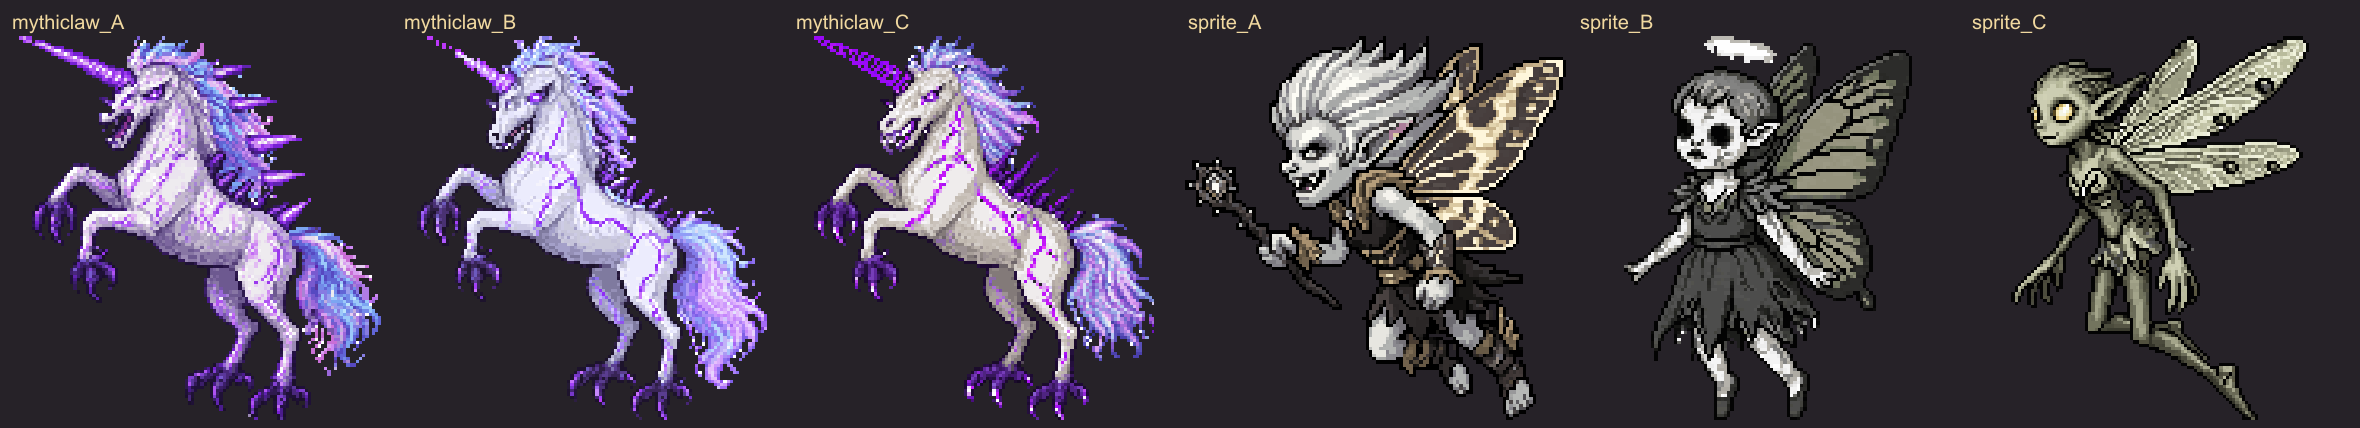
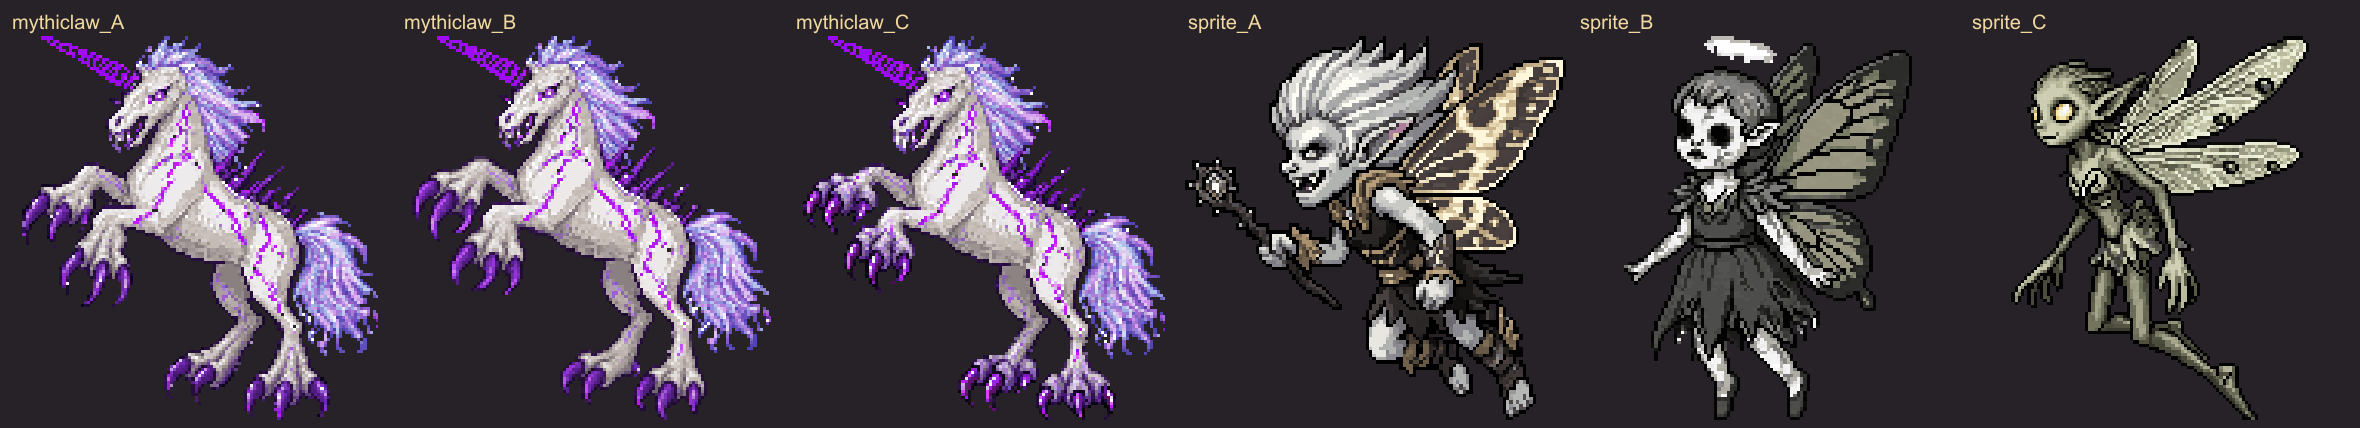
The Mythiclaw's claws: heavy, hooked beast claws in place of thin bird talons, with the two raised front claws splayed wide to strike (the user, 2026-11-26: "too bird claw like, go more like the GPT rendition"), on their pick of the three. Three claw versions are the new finalists; A is in the game 

Changed region(s): [[0.0, 0.0911, 0.4949, 0.972]]

diff --git a/lib/sprites/creatures.ts b/lib/sprites/creatures.ts
@@ -19,7 +19,7 @@ const ART_SIZES: Record<string, [number, number]> = {
   moss_wolf: [82, 65],
   amber_wasp: [62, 55],
   bellow_toad: [90, 68],
-  dire_wolf: [114, 121], // the Mythiclaw (2026-11-26; the Dire Wolf's old art is rooms/dire_wolf_scene.png)
+  dire_wolf: [116, 125], // the Mythiclaw (2026-11-26; the Dire Wolf's old art is rooms/dire_wolf_scene.png)
   ironhide: [122, 87],
   cave_bat: [60, 63], // the Cave Goblin (was the Cave Bat; the id stays for old saves)
   rust_beetle: [81, 68],

diff --git a/public/sprites/PIXELLAB.md b/public/sprites/PIXELLAB.md
@@ -41,7 +41,7 @@ the PNG here.
 | creatures/troglodyte_brute.png | job 67ed269a-ca13-4765-83fe-b35df2944608 (pixen 128×128, gallery c335fd01-ea0d-5785-9bb3-faf5f7481f87) |
 | creatures/gravewarden.png | job 8cd2d3c2-fcb0-40b4-a98b-b79505ae73b1 (pixen 128×128, gallery bde346e7-3644-5a5e-bdd9-8584e533f2a6) |
 | creatures/hexed_puppet.png | edit_image_pro_flash 54cf04de-84a8-4d7d-b7e3-9524eba3d90e (a whole marionette cross) of pixen cc79a273-a6d2-476f-ad22-1e19d5242628 |
-| creatures/dire_wolf.png | the Mythiclaw (2026-11-26; the Dire Wolf's art moved to rooms/dire_wolf_scene.png), restyled to the user's reference (art/new-creatures-2026-11-26/ref): edit_image_pro_flash d709b0be-cfb6-44ac-ac99-37a38b72f8d2 (thin glowing horn, bigger spikes) of 3a399567-1638-4146-a8d7-4d29176c7133 (the reference's look, by reference image) of the rearing edit ea24f831-e781-43a5-8db0-5b98067ff58f; option A of three (stand-in until the user picks) |
+| creatures/dire_wolf.png | the Mythiclaw (2026-11-26; the Dire Wolf's art moved to rooms/dire_wolf_scene.png), restyled to the user's reference (art/new-creatures-2026-11-26/ref): edit_image_pro_flash 6f0dbea2-52d7-402c-a443-04532a12f2e7 (heavy hooked claws, the raised pair splayed) of 73ddf64f-9ba9-473c-bf27-38dfdc6278c9 (thin glowing horn) of 0cdac18a-04e7-4dae-99ae-5bf7e993f0c3 (the reference's look) of the rearing edit ea24f831-e781-43a5-8db0-5b98067ff58f; option A of three (stand-in until the user picks) |
 | creatures/labyrinth_sprite.png | pixen 86998418-ac51-4bd5-947b-a732de99fda2; option A of three in art/new-creatures-2026-11-26 (stand-in until the user picks) |
 | creatures/deep_angler.png | gallery:aa6e8bcd-c214-4545-8890-8c9f9b18fcb7 (raw generation; trimmed + mirrored here) |
 | creatures/tunnel_wyrm.png | gallery:6b352516-6423-470d-8f0c-1b50394f10a9 (raw generation; trimmed + mirrored here) |

diff --git a/art/new-creatures-2026-11-26/README.md b/art/new-creatures-2026-11-26/README.md
@@ -17,3 +17,7 @@ the back, vein style things down it. I like the teeth. I like the colours"; the 
 of C with the reference as the style image), R2/R3 (text edits of C), R4/R5 (pixen; hooves, out). round6.png: the thin
 glowing horn on R1, R3, R2 = **the Mythiclaw finalists now**, A (V1, the judge's first), B (V3, cooler lilac), C (V2, brightest
 veins). The first look's finalists are in finals/first-look/.
+
+**Claws (2026-11-26):** the user picked C (V2) but wanted "more strong looking claws and more aggressive on the ones that are
+raised … too bird claw like, go more like the GPT rendition". round7.png: K1 (by the reference image), K2, K3 (text edits).
+**The Mythiclaw finalists now:** A = K3 (biggest hooked claws), B = K2, C = K1 (closest to the old C).
